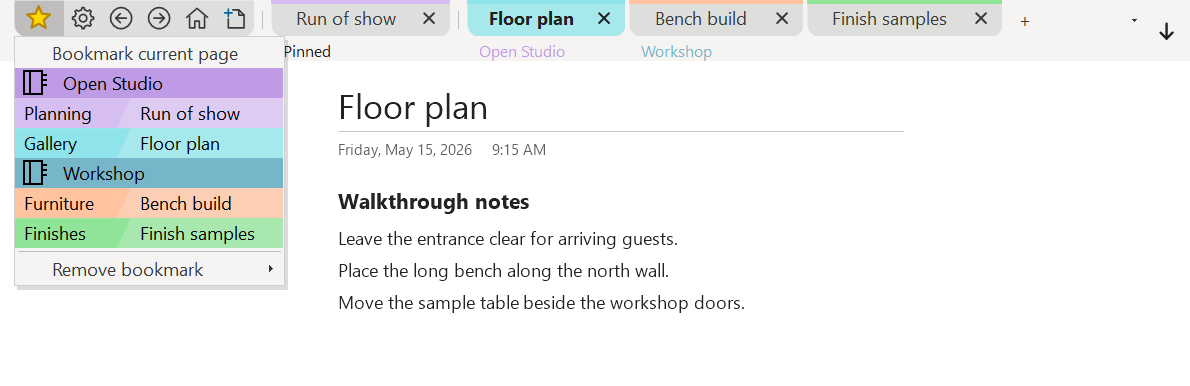
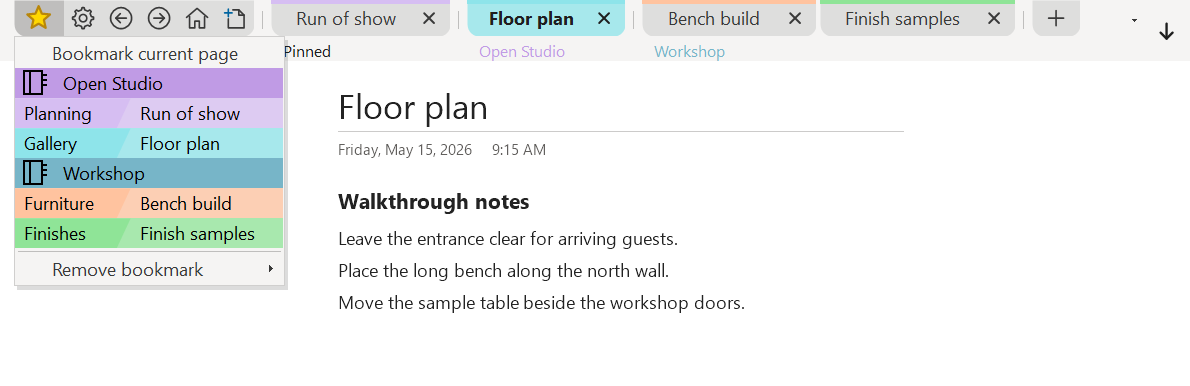
Separate visible MoreTabs groups and give the page picker a matching tab

diff --git a/addins/page-tabs/prototype/PageStrip.cs b/addins/page-tabs/prototype/PageStrip.cs
@@ -260,7 +260,6 @@ internal sealed class PageStrip : ToolStrip
     private readonly ToolStripMenuItem showLabels = new ToolStripMenuItem("Show notebook labels");
     private readonly ToolStripMenuItem groupTabs = new ToolStripMenuItem("Group tabs by notebook");
     private readonly ToolStripSeparator bookmarkDivider = new ToolStripSeparator();
-    private readonly ToolStripSeparator pinDivider = new ToolStripSeparator { Available = false };
     private readonly ContextMenuStrip tabMenu = new ContextMenuStrip();
     private readonly ToolTip notice = new ToolTip();
     private readonly TabCloseInput stripClose, overflowClose;
@@ -330,7 +329,7 @@ internal sealed class PageStrip : ToolStrip
         BindTool(home, GoHome);
         BindTool(newNote, delegate { CreateNote(this.store.Read().NewNoteSectionId); });
         Items.AddRange(toolGroup);
-        Items.AddRange(new ToolStripItem[] { bookmarkDivider, pinDivider, add });
+        Items.AddRange(new ToolStripItem[] { bookmarkDivider, add });
         stop = new ToolStripButton("Close prototype") { Alignment = ToolStripItemAlignment.Right };
         stop.Click += delegate { close(); };
         Items.Add(stop);
@@ -590,6 +589,7 @@ internal sealed class PageStrip : ToolStrip
         {
             var tabMargin = TabMargin(chrome.Dpi);
             SetMenuTabMargins(tabMargin);
+            add.TabWidth = HostChrome.Px(32, chrome.Dpi);
             Font oldRegular = tabFont, oldSelected = selectedTabFont, oldCaption = captionFont;
             var menuFont = SystemFonts.MenuFont;
             tabFont = new Font(menuFont.FontFamily, menuFont.SizeInPoints * chrome.Dpi / 72f, FontStyle.Regular, GraphicsUnit.Pixel);
@@ -606,14 +606,7 @@ internal sealed class PageStrip : ToolStrip
             var commandPadding = new Padding(HostChrome.Px(5, chrome.Dpi), 0, HostChrome.Px(5, chrome.Dpi), 0);
             foreach (ToolStripItem item in Items)
                 if (!(item is PageTabButton) && !(item is ToolStripSeparator) && !(item is ToolButton) && item != bookmarks && item != options) item.Padding = commandPadding;
-            foreach (var divider in new[] { bookmarkDivider, pinDivider })
-            {
-                divider.AutoSize = false;
-                divider.Margin = divider == bookmarkDivider ? new Padding(tabMargin.Right, 0, 0, 0) : Padding.Empty;
-                // One painted pixel with the same number of empty pixels on either side.
-                divider.Size = new Size(2 * HostChrome.Px(4, chrome.Dpi) + 1, HostChrome.Px(25, chrome.Dpi));
-                divider.Overflow = ToolStripItemOverflow.Never;
-            }
+            foreach (var divider in Items.OfType<ToolStripSeparator>()) SizeDivider(divider);
             foreach (var tab in Items.OfType<PageTabButton>()) SizeTab(tab);
             foreach (var label in labels.Values) label.Font = captionFont;
             if (oldRegular != null) oldRegular.Dispose();
@@ -629,8 +622,18 @@ internal sealed class PageStrip : ToolStrip
     }
     private void SetMenuTabMargins(Padding margin)
     {
+        add.Margin = margin;
         foreach (var tool in toolGroup)
             tool.Margin = new Padding(0, margin.Top, 0, margin.Bottom);
+    }
+    private void SizeDivider(ToolStripSeparator divider)
+    {
+        uint dpi = appearance.Dpi;
+        divider.AutoSize = false;
+        // Tools have no side margins. Match the first tab's inset on the Tools side.
+        divider.Margin = divider == bookmarkDivider ? new Padding(TabMargin(dpi).Left, 0, 0, 0) : Padding.Empty;
+        divider.Size = new Size(2 * HostChrome.Px(4, dpi) + 1, HostChrome.Px(25, dpi));
+        divider.Overflow = ToolStripItemOverflow.Never;
     }
     private void SizeTab(PageTabButton tab)
     {
@@ -960,24 +963,18 @@ internal sealed class PageStrip : ToolStrip
             button.Tag = slot;
         }
         int position = Items.IndexOf(bookmarkDivider) + 1;
-        int firstTab = position;
         var used = new HashSet<string>();
         var known = state.Tabs.Select(t => t.Page.Notebook).Concat(state.Bookmarks.Select(p => p.Notebook))
             .Where(book => book != null).GroupBy(book => book.Id).Select(g => g.First())
             .ToLookup(book => book.Name, StringComparer.CurrentCultureIgnoreCase);
         foreach (bool pinned in new[] { true, false })
         {
-            if (!pinned)
-            {
-                pinDivider.Available = position > firstTab;
-                PlaceItem(pinDivider, position++);
-            }
             // GroupBy keeps the order of first appearance and the saved order inside each notebook.
             var groups = state.Tabs.Where(tab => tab.Pinned == pinned).Select(tab => {
                 var book = tab.Page.NotebookForMenu();
                 if (book.Id.Length == 0 && known[book.Name].Count() == 1) book = known[book.Name].First();
                 return new { Tab = tab, Book = book };
-            }).GroupBy(entry => pinned ? "pinned" : state.GroupByNotebook ? entry.Book.GroupKey : entry.Tab.Key);
+            }).GroupBy(entry => !pinned && state.GroupByNotebook ? entry.Book.GroupKey : "");
             foreach (var group in groups)
             {
                 var key = (pinned ? "p:" : "r:") + group.Key;
@@ -985,11 +982,12 @@ internal sealed class PageStrip : ToolStrip
                 NotebookTabLabel label;
                 if (!labels.TryGetValue(key, out label))
                 {
-                    labels.Add(key, label = new NotebookTabLabel { Font = captionFont, Visible = false });
+                    labels.Add(key, label = new NotebookTabLabel { Font = captionFont, Visible = false, Divider = new ToolStripSeparator() });
+                    SizeDivider(label.Divider);
                     Host.Captions.Controls.Add(label);
                 }
-                label.Notebook = pinned ? null : group.First().Book;
-                string caption = pinned ? "Pinned" : label.Notebook.Name;
+                label.Notebook = !pinned && state.GroupByNotebook ? group.First().Book : null;
+                string caption = pinned ? "Pinned" : label.Notebook == null ? "" : label.Notebook.Name;
                 if (label.Text != caption)
                 {
                     label.Text = label.AccessibleName = caption;
@@ -1002,10 +1000,12 @@ internal sealed class PageStrip : ToolStrip
                     button.Group = label;
                     PlaceItem(button, position++);
                 }
+                PlaceItem(label.Divider, position++);
             }
         }
         foreach (string key in labels.Keys.Where(key => !used.Contains(key)).ToArray())
         {
+            labels[key].Divider.Dispose();
             labels[key].Dispose();
             labels.Remove(key);
         }
@@ -1051,33 +1051,36 @@ internal sealed class PageStrip : ToolStrip
         var tabs = Items.OfType<PageTabButton>().Where(t => t.Group != null).ToList();
         foreach (var tab in tabs) tab.WidthLimit = 0;
         var visible = new HashSet<ToolStripItem>();
+        var visibleGroups = new HashSet<NotebookTabLabel>();
         // With the star hidden the gear is the first icon and alone may have to span the Tools caption.
         options.TabWidth = bookmarks.Available ? HostChrome.Px(25, appearance.Dpi) : Math.Max(bookmarks.TabWidth, HostChrome.Px(34, appearance.Dpi));
         int space = DisplayRectangle.Width - ItemWidth(options) - ItemWidth(bookmarkDivider) - ItemWidth(add);
         if (bookmarks.Available) space -= ItemWidth(bookmarks);
-        if (pinDivider.Available) space -= ItemWidth(pinDivider);
+        int dividerWidth = bookmarkDivider.Width;
         var tools = toolGroup.OfType<ToolButton>().Where(t => t.Available).ToArray();
         int toolsWidth = tools.Sum(tool => ItemWidth(tool));
         int overflowWidth = Math.Max(OverflowButton.Width, HostChrome.Px(16, appearance.Dpi));
-        bool collapseTools = tools.Length > 0 && space - toolsWidth < overflowWidth + (tabs.Count == 0 ? 0 : HostChrome.Px(70, appearance.Dpi));
+        bool collapseTools = tools.Length > 0 && space - toolsWidth < overflowWidth + (tabs.Count == 0 ? 0 : HostChrome.Px(70, appearance.Dpi) + dividerWidth);
         foreach (var tool in tools) tool.Overflow = collapseTools ? ToolStripItemOverflow.Always : ToolStripItemOverflow.Never;
         if (!collapseTools) space -= toolsWidth;
-        if (collapseTools || tabs.Sum(tab => ItemWidth(tab)) + ItemWidth(stop) > space) space -= overflowWidth;
+        if (collapseTools || tabs.Sum(tab => ItemWidth(tab)) + labels.Count * dividerWidth + ItemWidth(stop) > space) space -= overflowWidth;
         PageTabButton active;
         if (activeKey != null && buttons.TryGetValue(activeKey, out active) && active.Group != null)
         {
-            int content = space - active.Margin.Horizontal;
+            int content = space - active.Margin.Horizontal - dividerWidth;
             if (content >= HostChrome.Px(48, appearance.Dpi)) active.WidthLimit = content;
         }
         // Reserve the selected page first, then fit other pages in the order they appear on the strip.
         foreach (var tab in tabs.OrderByDescending(t => ((SavedTab)t.Tag).Key == activeKey))
         {
-            int cost = ItemWidth(tab);
+            int cost = ItemWidth(tab) + (visibleGroups.Contains(tab.Group) ? 0 : dividerWidth);
             if (cost > space) continue;
             visible.Add(tab);
+            visibleGroups.Add(tab.Group);
             space -= cost;
         }
         foreach (var tab in tabs) tab.Overflow = visible.Contains(tab) ? ToolStripItemOverflow.Never : ToolStripItemOverflow.Always;
+        foreach (var label in labels.Values) label.Divider.Available = visibleGroups.Contains(label);
         stop.Overflow = space >= ItemWidth(stop) ? ToolStripItemOverflow.Never : ToolStripItemOverflow.Always;
     }
     internal ContextMenuStrip TabMenuFor(SavedTab tab)

diff --git a/addins/page-tabs/prototype/AppearanceTests.cs b/addins/page-tabs/prototype/AppearanceTests.cs
@@ -24,7 +24,7 @@ internal static class AppearanceTests
         Check(labels.SequenceEqual(new[] { "Dashboard", "Schedule", "Dashboard" }) &&
             strip.Items.OfType<PageTabButton>().Select(t => t.Group.Text).SequenceEqual(new[] { "Atlas", "Atlas", "Workshop" }),
             "Interleaved pages must form notebook groups that distinguish duplicate page titles.");
-        Check(strip.Items.OfType<ToolStripSeparator>().Count(s => s.Available) == 1, "An empty pinned group has two dividers.");
+        CheckGroupDividers(strip, 2);
         var schedule = strip.Items.OfType<PageTabButton>().ElementAt(1);
         var original = strip.Items.OfType<PageTabButton>().Single(t => t.Checked);
         TogglePin(strip, schedule, true);
@@ -93,8 +93,8 @@ internal static class AppearanceTests
         Check(active.Checked && active == strip.Items.OfType<PageTabButton>().First(),
             "Pinning the active tab lost its selection or left it in the regular group.");
         TogglePin(strip, active, false);
-        Check(active.Checked && strip.Items.OfType<ToolStripSeparator>().Count(s => s.Available) == 1,
-            "Unpinning the active tab lost its selection or left an extra divider.");
+        Check(active.Checked, "Unpinning the active tab lost its selection.");
+        CheckGroupDividers(strip, 2);
         strip.Attach(slot, layout);
         CheckOptions(strip, layout);
         Console.WriteLine("PASS long regular and bold titles leave clear space around the close icon at all four scales.");
@@ -157,6 +157,7 @@ internal static class AppearanceTests
         TogglePin(strip, grouped[2], true);
         int fullDocument = layout.DocumentBounds.Height;
         labels.PerformClick();
+        CheckGroupDividers(strip, 2);
         Check(!colors.Enabled && !colors.Checked && group.Checked && labels.Enabled && !labels.Checked &&
             !strip.Host.Captions.Visible && !grouped[2].Group.Visible && strip.Host.Height == HostChrome.StripHeight(layout.Dpi, false) &&
             layout.DocumentBounds.Height == fullDocument + HostChrome.CaptionHeight(layout.Dpi) &&
@@ -165,6 +166,7 @@ internal static class AppearanceTests
                 colors.Enabled, colors.Checked, group.Checked, labels.Enabled, labels.Checked, strip.Host.Captions.Visible,
                 grouped[2].Group.Visible, strip.Host.Height, layout.DocumentBounds.Height, fullDocument, layout.StillReserved(strip.Host.Bounds)));
         group.PerformClick();
+        CheckGroupDividers(strip, 2);
         Check(!labels.Enabled && !colors.Enabled && strip.Items.OfType<PageTabButton>().First() == grouped[2],
             "Disabling grouping must keep pins first and disable the caption controls.");
         group.PerformClick();
@@ -179,6 +181,7 @@ internal static class AppearanceTests
             !labels.Enabled && !labels.Checked && !colors.Enabled && !colors.Checked &&
             !strip.Host.Captions.Visible && layout.DocumentBounds.Height == fullDocument + HostChrome.CaptionHeight(layout.Dpi),
             "Ungrouping must restore opening order and remove the caption row.");
+        CheckGroupDividers(strip, 1);
         group.PerformClick();
         Check(strip.ActiveTabKey == selected && strip.Items.OfType<PageTabButton>().SequenceEqual(grouped) &&
             labels.Checked && colors.Checked && strip.Host.Captions.Visible && layout.DocumentBounds.Height == fullDocument,
@@ -268,6 +271,22 @@ internal static class AppearanceTests
     {
         return bottom ? tab.Bounds.Bottom - 1 - distance : tab.Bounds.Top + distance;
     }
+    internal static void CheckGroupDividers(PageStrip strip, int? expectedGroups = null)
+    {
+        var items = strip.Items.Cast<ToolStripItem>().Where(i => i.Available && i.Placement == ToolStripItemPlacement.Main &&
+            (i is ToolStripSeparator || i is PageTabButton || i is PagePicker)).ToArray();
+        int groups = expectedGroups ?? items.OfType<PageTabButton>().Select(t => t.Group).Distinct().Count();
+        Check(items.Length >= 2 && items[0] is ToolStripSeparator && items.Last() is PagePicker &&
+            items.OfType<ToolStripSeparator>().Count() == 1 + groups, "Tools, tab groups and the page picker have incorrect boundaries.");
+        for (int i = 1; i < items.Length - 1; i++)
+        {
+            var tab = items[i] as PageTabButton;
+            if (tab == null) continue;
+            var nextTab = items.Skip(i + 1).OfType<PageTabButton>().FirstOrDefault();
+            bool endsGroup = nextTab == null || nextTab.Group != tab.Group;
+            Check((items[i + 1] is ToolStripSeparator) == endsGroup, "A divider is missing or splits tabs from the same group.");
+        }
+    }
     private static Bitmap CheckStrip(PageStrip strip, HostChrome chrome)
     {
         strip.PerformLayout();
@@ -276,13 +295,10 @@ internal static class AppearanceTests
         var gear = strip.Items[1];
         var dividers = strip.Items.OfType<ToolStripSeparator>().Where(s => s.Available).ToArray();
         Check(star != null && star.Available && star.AccessibleName == "Bookmarks" && !star.ShowDropDownArrow &&
-            star.DisplayStyle == ToolStripItemDisplayStyle.None && dividers.Length == 2,
-            "Expected an icon-only bookmark menu and two group dividers.");
+            star.DisplayStyle == ToolStripItemDisplayStyle.None, "Expected an icon-only bookmark menu.");
+        CheckGroupDividers(strip);
         Check(star.Bounds.Right <= dividers[0].Bounds.Left && dividers[0].Bounds.Right <= first.Bounds.Left,
             "Bookmark menu and first divider must precede the tabs.");
-        foreach (var tab in strip.Items.OfType<PageTabButton>().Where(t => t.Placement == ToolStripItemPlacement.Main))
-            Check(((SavedTab)tab.Tag).Pinned ? tab.Bounds.Right <= dividers[1].Bounds.Left : tab.Bounds.Left >= dividers[1].Bounds.Right,
-                "A tab appeared in the wrong group.");
         var active = strip.Items.OfType<PageTabButton>().Single(b => b.Checked);
         var palette = (TabRenderer)strip.Renderer;
         bool bottom = strip.AtBottom;
@@ -313,6 +329,15 @@ internal static class AppearanceTests
             }
             Rectangle b = active.Bounds;
             int edge = HostChrome.Px(1, chrome.Dpi);
+            var picker = strip.Items.OfType<PagePicker>().Single();
+            int center = picker.Bounds.Left + picker.Width / 2;
+            Color pickerFill = picker.Pressed ? palette.Active : picker.Selected ? palette.Hover : palette.Tab;
+            Check(picker.Bounds.Top == first.Bounds.Top && picker.Height == first.Height &&
+                bitmap.GetPixel(center, FlatEdgeY(picker, bottom, 2 * edge)).ToArgb() == pickerFill.ToArgb() &&
+                bitmap.GetPixel(picker.Bounds.Left, FlatEdgeY(picker, !bottom, 0)).ToArgb() == palette.Surface.ToArgb() &&
+                bitmap.GetPixel(picker.Bounds.Right - 1, FlatEdgeY(picker, !bottom, 0)).ToArgb() == palette.Surface.ToArgb() &&
+                bitmap.GetPixel(center, picker.Bounds.Top + picker.Height / 2).ToArgb() != pickerFill.ToArgb(),
+                "The new-tab button must have a centered plus and the same dock-facing shape as the page tabs.");
             var band = strip.Host.Captions;
             var tools = band.Controls.OfType<NotebookTabLabel>().Single(l => l.Text == "Tools" && l.Notebook == null);
             Check(tools.Visible && tools.ForeColor == palette.Ink && tools.Font.Style == FontStyle.Regular &&
@@ -430,8 +455,8 @@ internal static class AppearanceTests
             bitmap.Save(Path.Combine(fixtureDirectory, "MoreTabs-strip.png"), ImageFormat.Png);
         }
         TogglePin(strip, schedule, false);
-        Check(active.Checked && strip.Items.OfType<ToolStripSeparator>().Count(s => s.Available) == 1,
-            "Unpinning switched the active tab or left an empty pinned group.");
+        Check(active.Checked, "Unpinning switched the active tab.");
+        CheckGroupDividers(strip);
         Console.WriteLine("PASS bookmark star, subtle vertical dividers and pin/unpin via the tab menu with the active tab preserved.");
         Console.WriteLine("PASS tab rendering in OneNote: surface #{0:X6}, bookmark star X={1}px ({2}), DPI {3}; square top and rounded lower corners.",
             chrome.Surface.ToArgb() & 0xffffff, chrome.Inset, !layout.VerticalTabs && chrome.Measured ? "measured notebook icon" : "default inset", chrome.Dpi);

diff --git a/addins/page-tabs/prototype/TabRenderer.cs b/addins/page-tabs/prototype/TabRenderer.cs
@@ -29,7 +29,7 @@ internal sealed class BookmarkButton : StripMenuButton
     }
 }
 
-internal enum ToolIcon { Settings, Back, Forward, Home, NewNote }
+internal enum ToolIcon { Settings, Back, Forward, Home, NewNote, NewTab }
 
 internal sealed class ToolButton : ToolStripButton
 {
@@ -102,6 +102,7 @@ internal sealed class PageTabButton : ToolStripButton
 internal sealed class NotebookTabLabel : Label
 {
     internal BookmarkNotebook Notebook;
+    internal ToolStripSeparator Divider;
     private const TextFormatFlags Flags = TextFormatFlags.SingleLine | TextFormatFlags.NoPrefix | TextFormatFlags.NoPadding;
     internal NotebookTabLabel()
     {
@@ -293,7 +294,7 @@ internal sealed class TabRenderer : ToolStripProfessionalRenderer
         try
         {
             var strip = e.Item.Owner as PageStrip;
-            if (page == null && strip != null)
+            if (page == null && strip != null && !(e.Item is PagePicker))
             {
                 // The tools share an outline while retaining individual hit targets.
                 Rectangle both = strip.MenuTabBounds;
@@ -340,6 +341,7 @@ internal sealed class TabRenderer : ToolStripProfessionalRenderer
     {
         if (!(e.Item is StripMenuButton)) { PaintCommand(e); return; }
         PaintTab(e, null);
+        if (e.Item is PagePicker) { DrawToolIcon(e, ToolIcon.NewTab); return; }
         if (!(e.Item is BookmarkButton)) { DrawToolIcon(e, ToolIcon.Settings); return; }
         float cy = e.Item.Height / 2f;
         float radius = Math.Min(HostChrome.Px(8, Dpi), cy - 1);
@@ -389,6 +391,10 @@ internal sealed class TabRenderer : ToolStripProfessionalRenderer
             {
                 switch (icon)
                 {
+                    case ToolIcon.NewTab:
+                        g.DrawLine(pen, 3, 8, 13, 8);
+                        g.DrawLine(pen, 8, 3, 8, 13);
+                        break;
                     case ToolIcon.Back:
                     case ToolIcon.Forward:
                         if (icon == ToolIcon.Forward) { g.TranslateTransform(16, 0); g.ScaleTransform(-1, 1); }

diff --git a/addins/page-tabs/prototype/SavedSessionTests.cs b/addins/page-tabs/prototype/SavedSessionTests.cs
@@ -232,8 +232,8 @@ internal static class SavedSessionTests
                         settings.All(i => !i.Checked) && settings[0].Enabled && settings.Skip(1).All(i => !i.Enabled),
                         "A restart lost the dependent preferences or showed them as active with grouping off.");
                     var pinned = strip.Items.OfType<PageTabButton>().First();
-                    Check(((SavedTab)pinned.Tag).Pinned && ((SavedTab)pinned.Tag).Page.Id == "a2" &&
-                        strip.Items.OfType<ToolStripSeparator>().Count(s => s.Available) == 2, "Pinned group did not survive restart.");
+                    Check(((SavedTab)pinned.Tag).Pinned && ((SavedTab)pinned.Tag).Page.Id == "a2", "Pinned group did not survive restart.");
+                    AppearanceTests.CheckGroupDividers(strip, 2);
                     Check(strip.TabCount == 2 && stored.Tabs.Select(t => t.Page.Id).SequenceEqual(new[] { "a1", "a2" }) &&
                         source.Current == "untracked" && !strip.IsSelected("a1"), "Restoration changed the page or lost the tab order.");
                     Check(strip.Items.OfType<PageTabButton>().All(t => !t.Checked && t.SectionColor == source.SectionColor(((SavedTab)t.Tag).Page.Id)),
@@ -268,6 +268,7 @@ internal static class SavedSessionTests
                     break;
                 case "empty":
                     Check(strip.TabCount == 0 && store.Read().Bookmarks.Count == 0, "An intentionally empty session was reseeded.");
+                    AppearanceTests.CheckGroupDividers(strip, 0);
                     break;
                 default: throw new ArgumentException("Unknown session fixture phase.");
             }

diff --git a/addins/page-tabs/prototype/PagePicker.cs b/addins/page-tabs/prototype/PagePicker.cs
@@ -5,15 +5,17 @@ using System.Xml;
 using System.Xml.Linq;
 
 // Opening a branch reads just that level of the hierarchy. Only page items navigate.
-internal sealed class PagePicker : ToolStripDropDownButton
+internal sealed class PagePicker : StripMenuButton
 {
     internal readonly ToolStripMenuItem QuickNote, KeepCurrent;
 
-    internal PagePicker(IPages pages, Action<SavedPage> open, Action quickNote, Action keepCurrent) : base("+")
+    internal PagePicker(IPages pages, Action<SavedPage> open, Action quickNote, Action keepCurrent)
     {
+        Text = "+";
         Enabled = pages != null;
         AccessibleName = ToolTipText = "Open a page in a new tab";
-        DisplayStyle = ToolStripItemDisplayStyle.Text;
+        AutoToolTip = false;
+        DisplayStyle = ToolStripItemDisplayStyle.None;
         ShowDropDownArrow = false;
         Overflow = ToolStripItemOverflow.Never;
         QuickNote = new ToolStripMenuItem("New Quick Note", null, delegate { quickNote(); });

diff --git a/addins/page-tabs/prototype/PrototypeTests.cs b/addins/page-tabs/prototype/PrototypeTests.cs
@@ -752,6 +752,7 @@ internal static class PrototypeTests
                 strip.Items.OfType<ToolButton>().All(t => t.Placement == ToolStripItemPlacement.Overflow),
                 "A narrow window must keep the Tools caption aligned and its commands available in overflow.");
             var headers = strip.Host.Captions.Controls.OfType<NotebookTabLabel>().Where(l => l.Visible && l != toolsLabel).ToArray();
+            AppearanceTests.CheckGroupDividers(strip, headers.Length);
             Check(visible.Any(t => t.Checked) && visible.All(t => headers.Contains(t.Group) && t.Group.Left <= t.Bounds.Left + TabRenderer.CornerRadius(t.Dpi) && t.Group.Right >= t.Bounds.Right) &&
                 headers.All(h => visible.Any(t => t.Group == h)), "Overflow separated the active page from its notebook label.");
             frame.ClientSize = new Size(frame.ClientSize.Width + 32, frame.ClientSize.Height + 48);

diff --git a/addins/page-tabs/README.md b/addins/page-tabs/README.md
@@ -43,7 +43,7 @@ MoreTabs uses OneNote's notebook navigation background in both tab views. In hor
 
 ![MoreTabs docked at the bottom, with notebook captions above the tabs](appearance-bottom.png)
 
-The first rounded tab is labeled **Tools**. From left to right it holds Bookmarks, Settings, Back, Forward, Home, and New note. Back and Forward use OneNote's own page history in the associated window. A divider separates Tools from the page tabs.
+The first rounded tab is labeled **Tools**. From left to right it holds Bookmarks, Settings, Back, Forward, Home, and New note. Back and Forward use OneNote's own page history in the associated window. Subtle dividers separate Tools, the pinned group, each visible notebook group, and the rounded **+** page picker. With notebook grouping off, unpinned tabs share one group.
 
 Open **Settings → Visible tool buttons** to show or hide Bookmarks, Back, Forward, Home, and New note individually. All five start enabled. Changes take effect immediately and carry over to the next session. The Settings gear always stays on the strip.
 
